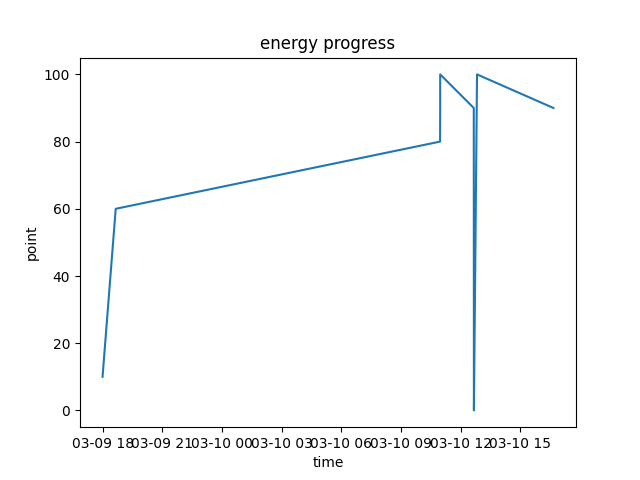
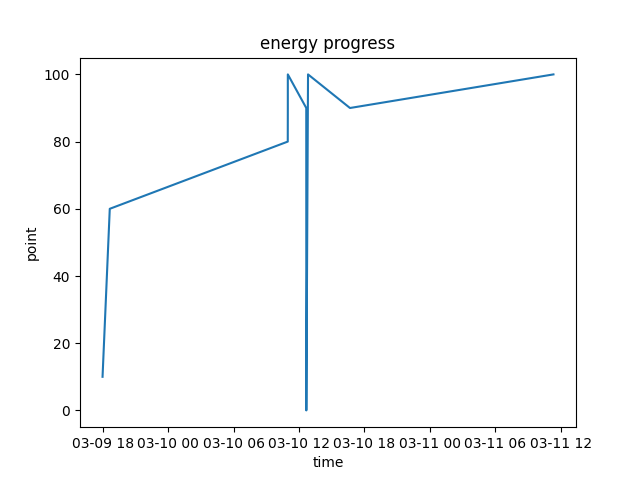
my_third_dragon

diff --git a/web/templates/bi.html b/web/templates/bi.html
@@ -22,6 +22,8 @@
             {% for action in today_reps %}
                 <p> {{ action[0] }}- {{ action[1]}} </p>
             {% endfor %}
+            <img src="{{ url_for('static', filename='action_today_reps.png') }}"  
+             alt="action_today_reps" width="500" style="border: 2px solid #ddd; border-radius: 8px;">
         </div>
         <div class="bi-subcard">
             <h4>Actions's reps of all times:</h4>
@@ -29,6 +31,8 @@
             {% for action in reps_history %}
                 <p> {{ action[0] }}- {{ action[1]}} times</p>
             {% endfor %}
+            <img src="{{ url_for('static', filename='action_reps.png') }}"  
+             alt="action_reps" style="border: 2px solid #ddd; border-radius: 8px;">
         </div>
         <div class="bi-subcard">
             <h4>Features below standard:</h4>

diff --git a/web/static/style.css b/web/static/style.css
@@ -128,8 +128,8 @@ pre{
     box-shadow: 0 8px 16px rgba(0,0,0,0.3);
 }
 .bi-card img {
-    width: 80px;
-    height: 80px;
+    width: 200px;
+    height: 200px;
     margin-bottom: 10px;
 }
 .bi-card a:hover {
@@ -182,6 +182,15 @@ pre{
 }
 
 
+.bi-subcard img{
+    display:block;
+    margin:15px auto;
+    max-width:100%;
+    width:420px;
+    border: 2px solid #ddd;
+    border-radius: 10px;
+    box-shadow: 0 3px 6px rgba(0,0,0,0.2);
+}
 
 
 

diff --git a/services/monitoring_calculation.py b/services/monitoring_calculation.py
@@ -170,7 +170,49 @@ def create_progress_graphes(my_pet: pet.Pet):
         x_value = []
         y_value = []
         plt.figure()
+
+
+def create_action_reps_graph(my_pet: pet.Pet):
+    actions_reps = calc_actions_history(my_pet)
+    actions_today_reps = calc_actions_today_reps(my_pet)
+    left = [1, 2, 3, 4, 5]
+    tick_label = []
+    height = []
+    for action in actions_reps:
+        tick_label.append(action[0])
+        height.append(action[1])
     
+    plt.bar(left, height, tick_label = tick_label, width = 0.8, color = ["blue"])
+
+    plt.xlabel("actions")
+    plt.ylabel("reps")
+    plt.title("action reps")
+
+    file_path = os.path.join(STATIC_DIR, f"action_reps.png")
+    plt.savefig(file_path)
+    plt.close()
+
+    tick_label = []
+    height = []
+    plt.figure()
+
+    for action in actions_today_reps:
+        tick_label.append(action[0])
+        height.append(action[1])
+    
+    plt.bar(left, height, tick_label = tick_label, width = 0.8, color = ["blue"])
+
+    plt.xlabel("actions")
+    plt.ylabel("reps")
+    plt.title("action reps")
+
+    file_path = os.path.join(STATIC_DIR, f"action_today_reps.png")
+    plt.savefig(file_path)
+    plt.close()
+
+
+    
+
 
 
 

diff --git a/web/app.py b/web/app.py
@@ -80,6 +80,7 @@ def bi_page(name):
     if not my_pet:
         return render_template("error.html")
     monitoring_calculation.create_progress_graphes(my_pet)
+    monitoring_calculation.create_action_reps_graph(my_pet)
     return render_template("bi.html", pet=my_pet, name=name, 
                            today_reps=monitoring_calculation.calc_actions_today_reps(my_pet), 
                            reps_history=monitoring_calculation.calc_actions_history(my_pet), 
